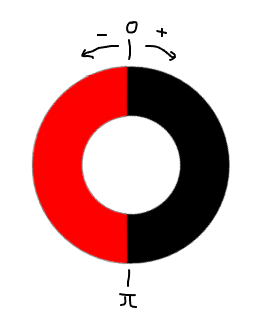
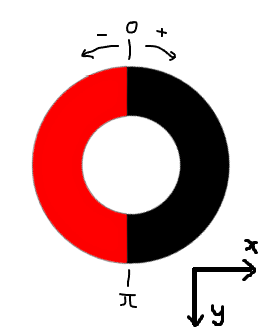
coordinate system change

Changed region(s): [[0.684, 0.7251, 0.9517, 0.997]]

diff --git a/src/radian/radian.spec.ts b/src/radian/radian.spec.ts
@@ -14,22 +14,27 @@ describe('Radian: ', () => {
 
     it('sample 3', () => {
       let vec = { x: 0, y: 1 };
-      expect(Radian.vectorToRadian(vec)).toEqual(0);
+      expect(Radian.vectorToRadian(vec)).toEqual(Math.PI);
     });
 
     it('sample 4', () => {
       let vec = { x: 0, y: -1 };
-      expect(Radian.vectorToRadian(vec)).toEqual(Math.PI);
+      expect(Radian.vectorToRadian(vec)).toEqual(0);
     });
 
     it('sample 5', () => {
       let vec = { x: 4, y: -3 };
-      expect(Radian.vectorToRadian(vec)).toEqual(2.214297435588181);
+      expect(Radian.vectorToRadian(vec)).toEqual(0.9272952180016122);
     });
 
     it('sample 6', () => {
       let vec = { x: 4, y: 3 };
-      expect(Radian.vectorToRadian(vec)).toEqual(0.9272952180016122);
+      expect(Radian.vectorToRadian(vec)).toEqual(2.214297435588181);
+    });
+
+    it('sample 7', () => {
+      let vec = { x: -4, y: 3 };
+      expect(Radian.vectorToRadian(vec)).toEqual(-2.214297435588181);
     });
   });
 
@@ -46,22 +51,27 @@ describe('Radian: ', () => {
 
     it('sample 3', () => {
       let vec = { x: 0, y: 1 };
-      expect(Radian.radianToVector(0)).toEqual(vec);
+      expect(Radian.radianToVector(Math.PI)).toEqual(vec);
     });
 
     it('sample 4', () => {
       let vec = { x: 0, y: -1 };
-      expect(Radian.radianToVector(Math.PI)).toEqual(vec);
+      expect(Radian.radianToVector(0)).toEqual(vec);
     });
 
     it('sample 5', () => {
       let vec = { x: 0.8, y: -0.6 };
-      expect(Radian.radianToVector(2.214297435588181)).toEqual(vec);
+      expect(Radian.radianToVector(0.9272952180016122)).toEqual(vec);
     });
 
     it('sample 6', () => {
       let vec = { x: 0.8, y: 0.6 };
-      expect(Radian.radianToVector(0.9272952180016122)).toEqual(vec);
+      expect(Radian.radianToVector(2.214297435588181)).toEqual(vec);
+    });
+
+    it('sample 7', () => {
+      let vec = { x: -0.8, y: 0.6 };
+      expect(Radian.radianToVector(-2.214297435588181)).toEqual(vec);
     });
   });
 

diff --git a/src/radian/radian.ts b/src/radian/radian.ts
@@ -6,13 +6,14 @@ const HalfPI = Math.PI / 2;
 
 export class Radian {
   static vectorToRadian(vector: Vec2): number {
-    return Math.atan2(-vector.y, vector.x) + HalfPI;
+    let radian = Math.atan2(vector.y, vector.x) + HalfPI;
+    return radian > Math.PI ? radian - DoublePI : radian;
   }
 
   static radianToVector(radian: number): Vec2 {
     return {
       x: NumberHelper.removeUnderflow(Math.sin(radian)),
-      y: NumberHelper.removeUnderflow(Math.cos(radian))
+      y: NumberHelper.removeUnderflow(Math.cos(Math.PI - radian))
     };
   }
 
